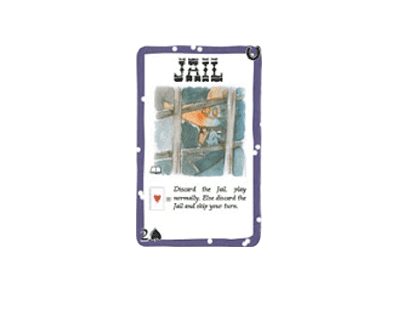
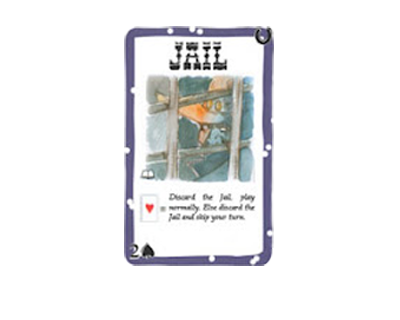
make the lockout images cycle

Changed region(s): [[0.3, 0.0625, 0.69, 0.8438]]

diff --git a/src/js/services/EscapeFactory.js b/src/js/services/EscapeFactory.js
@@ -75,7 +75,23 @@ escapeApp.factory('EscapeFactory', [
 					'wordFind',
 					'taboo'
 				]
-			}
+			},
+
+			lockoutImages: [
+				'img/lockout/lock.png',
+				'img/lockout/in-jail.png',
+				'img/lockout/dunce.png',
+				'img/lockout/skip.png',
+				'img/lockout/old-maid.png',
+				'img/lockout/fireball.png',
+				'img/lockout/go-to-jail.png',
+				'img/lockout/sorry.png',
+				'img/lockout/jenga.png',
+				'img/lockout/dont-wake-daddy.png',
+				'img/lockout/epidemic.png',
+				'img/lockout/life.png',
+				'img/lockout/jail.png'
+			]
 		};
 	}
 ]);

diff --git a/src/js/session.js b/src/js/session.js
@@ -170,7 +170,8 @@ escapeApp.controller('SessionCtrl', [
 			solvedQuestions: [],
 			q: EF.questions,
 			lockoutTimeRemaining: 0,
-			status: EF.statuses
+			status: EF.statuses,
+			lockoutImages: EF.lockoutImages
 		});
 
 		$s.requestHint = function requestHint() {
@@ -242,6 +243,9 @@ escapeApp.controller('SessionCtrl', [
 				nextClue(q);
 			} else {
 				$s.activeTeam.lockoutStarted = currentTime;
+				if(++$s.activeTeam.lockoutIndex == $s.lockoutImages.length) {
+					$s.activeTeam.lockoutIndex = 0;
+				}
 			}
 		};
 

diff --git a/src/less/session.less b/src/less/session.less
@@ -18,6 +18,9 @@ address, article, aside, canvas, details, figcaption, figure, footer, header, hg
 	font-family: messageFont;
 	src: url(../fonts/monospace.ttf);
 }
+.lockout-image {
+	margin: auto;
+}
 .medal {
 	float: right;
 	width: 100px;

diff --git a/src/js/admin.js b/src/js/admin.js
@@ -92,6 +92,7 @@ escapeApp.controller('AdminCtrl', [
 				lockoutPeriod: EF.defaultLockoutPeriod,
 				lockoutStartTime: null,
 				status: 0,
+				lockoutIndex: 0,
 				password: password,
 				passwordRequired: false,
 				tracks: EF.tracks
